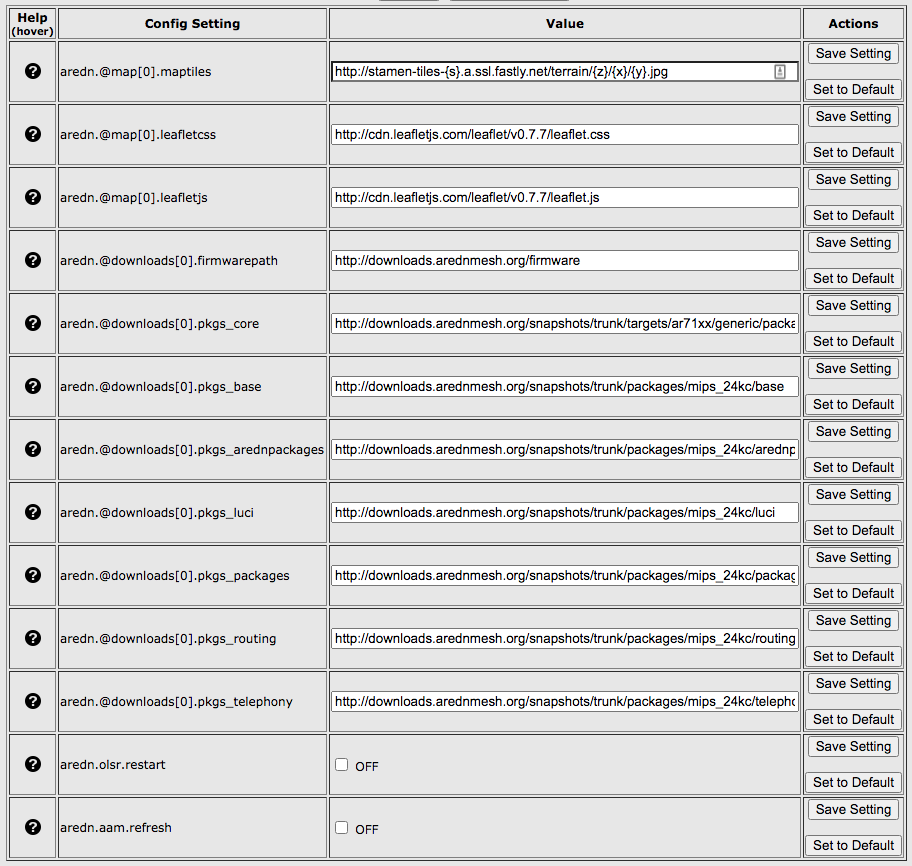
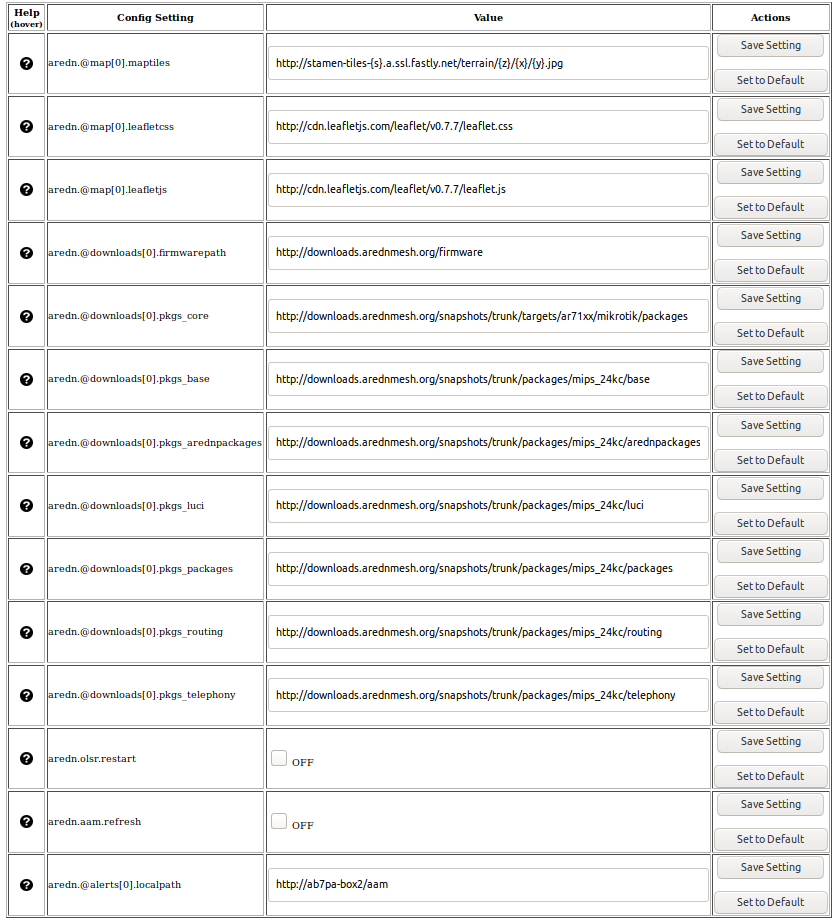
Local Alert Messages and Path (#72)
Add local alert message display and path to the documentation.

Changed region(s): [[0.0, 0.0, 1.0, 0.9977]]

diff --git a/arednGettingStarted/advanced_config.rst b/arednGettingStarted/advanced_config.rst
@@ -296,7 +296,27 @@ The first several rows in the *Advanced Configuration* table contain the URLs an
   There is a known intermittent issue that may occur when a node boots. If OLSR fails to propagate information or does not receive all the network hostnames, a one-time restart of OLSR should resolve the issue. OLSR should be restarted on your node if other nodes' *Mesh Status* display have your node's IP address rather than hostname or if "dtdlink" or "mid" is shown in your node's hostname on their *Mesh Status* display. If your node's *Mesh Status* display shows the IP address rather than hostname for a remote node, then that remote node should restart OLSR.
 
 *AREDN Alert Message (AAM) Refresh*
-  The AREDN |trade| development team may post messages which Internet-connected nodes will automatically retrieve once every 12 hours. You can use this refresh setting if you want your node to retrieve any new messages immediately, without having to wait for the next auto-refresh window.
+  The AREDN |trade| development team may post messages which Internet-connected nodes will automatically retrieve once every 12 hours. You can use this refresh setting if you want your node to retrieve any new messages without having to wait for the next auto-refresh window. Select the *aam refresh* checkbox and click *Save Setting* to trigger an immediate message retrieval.
+
+*AREDN Alerts Local Path*
+  This field allows you to enter the URL for a local alert message repository. If you configure such a local repository then your nodes without Internet access can also receive alert messages pertinent to your local mesh. As shown below, enter the URL without a trailing backslash.
+
+.. image:: _images/alertlocalpath.png
+   :alt: Local Alert Message Repository Path
+   :align: center
+
+A local message repository should be configured on a mesh-connected web server which allows nodes to query the URL you provided. No Internet access is required for this feature to work as designed. You can consult with your local web server administrator in order to obtain the correct URL for the local message repository. Use the following file naming convention on the web server:
+
+* Create text files for individual nodes by using only lowercase characters with the exact node name, followed by the ``.txt`` extension as shown below.
+* To create a broadcast message intended for all local nodes, enter your message text in a file named ``all.txt`` using only lowercase characters for the filename.
+
+.. image:: _images/url-content.png
+   :alt: Local Alert Message Repository Content
+   :align: center
+
+It is possible to include HTML tags in your message text, such as using the ``<br />`` tag to display subsequent text on the next line. However, it is best practice to keep alert messages short in order to minimize the height of the alert banner displayed on node webpages.
+
+----------
 
 Node Reset Button
 -----------------

diff --git a/arednGettingStarted/node_status.rst b/arednGettingStarted/node_status.rst
@@ -45,14 +45,16 @@ The **Load Average** is the average number of processes that have been running o
 
 The :abbr:`OLSR (Optimized Link State Routing protocol)` **Entries** show the total number of entries in the routing table, as well as the number of nodes currently connected to the mesh network.
 
-Node and Broadcast Messages
----------------------------
+AREDN |trade| Alert Messages
+----------------------------
 
-The AREDN |trade| development team now has the ability to post messages which Internet-connected nodes will automatically retrieve once every 12 hours. There are two types of messages: QST/broadcast messages intended for all nodes, and directed messages which are only retrieved by individual nodes. Messages are displayed at the top of the *Node Status* page above the node name. Be aware that there is no guarantee of privacy for these messages, since anyone can view the message repository online.
+The AREDN |trade| development team has the ability to post messages which Internet-connected nodes will automatically retrieve once every 12 hours. There are two types of messages: QST/broadcast messages intended for all nodes, and directed messages which are only retrieved by individual nodes. Messages are displayed on a node's webpages above the node name. Be aware that there is no guarantee of privacy for these messages, since anyone can view the message repository online.
 
-.. image:: _images/node-messages.png
-   :alt: Node Message Display
+.. image:: _images/aam-display.png
+   :alt: AAM Display
    :align: center
+
+Regular mesh nodes without Internet access also have the ability to display *Local Alerts*. The process for setting up a local message repository is described in the **Advanced Configuration** section. If a node has Internet access as well as local messages, then both types of messages will be displayed in the AREDN |trade| alerts banner as shown in the example above.
 
 Signal Charts
 -------------
